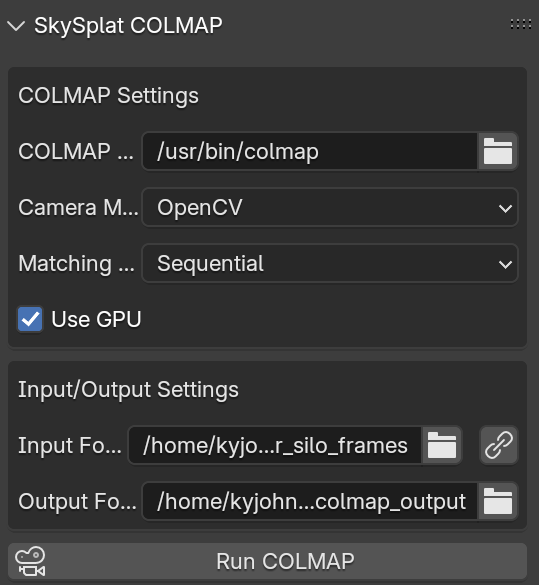
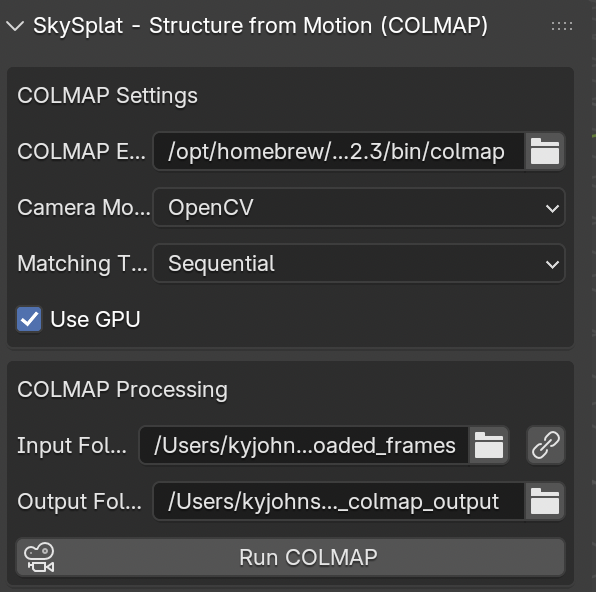
update readme

diff --git a/README.md b/README.md
@@ -169,7 +169,7 @@ For the most up-to-date version or if you want to modify the source code:
    - Select the "SkySplat" tab
 
 2. **Loading Drone Footage**
-   - You can download the example video used in this walkthrough at [windsor_silo](https://skysplat.net/DJI_20240730101124_0020_D_windsor_silo.MP4) (right click and save as)
+   - You can download the example video used in this walkthrough at [windsor_silo](https://skysplat.net/DJI_20250731122012_0009_D_windsor_silo_new_small.mp4) (right click and save as) (This is a new video of the silo that tends to work better in COLMAP)
    - Select your video file in the "Video File" field in the 3D Viewport
    - If available, the SRT metadata file will be detected automatically
    - Click "Load Video and SRT" to import into the Video Sequencer
@@ -177,13 +177,13 @@ For the most up-to-date version or if you want to modify the source code:
 <img src="images/video_loader_panel.png" width="400" alt="Description">
 
 3. **Extracting Frames**
-   - Set your desired frame range and step value, we suggest a step size between 5 and 10 for the sample silo video. Smaller step size means more frames and better reconstruction, but also longer processing times.
+   - Set your desired frame range and step value, Version 0.3.0 of SkySplat will automatically select the frame step value to get the total number of extracted frames to about 170. Smaller step size means more frames and better reconstruction, but also longer processing times.
    - Confirm or modify the output folder
    - Click "Extract Frames" to process
 
 4. **COLMAP Workflow**
    - Configure COLMAP settings in the SkySplat COLMAP panel
-   - COLMAP Executable should auto populate with your systems default path, however you can manually set it if needed
+   - COLMAP Executable should auto populate with your systems default path, however you can manually set it if needed (on MacOS this path will be /opt/homebrew/bin/colmap if you used the homebrew as the install method as described above)
    - If the input and output paths for the models aren't loaded, you can click the chain link icon to auto populate them from the video file path and defaults.
    - The defaults for the other settings should be sufficient for your first few runs. 
    - Click "Run COLMAP" to begin processing your video frames into a sparse point cloud (you can monitor the console running blender for detailed colmap output)
@@ -191,8 +191,12 @@ For the most up-to-date version or if you want to modify the source code:
 <img src="images/colmap_panel.png" width="400" alt="Description">
 
 5. **COLMAP Model Transformation**
-   This step was the main reason I came up with this workflow. COLMAP will default the coordinate frame to the frame of the initial camera pose. This means that for many gaussian splatting drone videos, it is slightly tilted down and at the first camera origin, rather than being at a natural center of the scene. This panel lets you load the COLMAP output model, scale, rotate, and translate the parent object in blender to a more natural scale, position, and orientation, and then export the model before gaussian splatting training.
-   - Click "Load COLMAP Model" after running COLMAP (future versions will make explicit the location of the model to load from, however for now it is the same location as the output of COLMAP that you selected above). Note that the defaults of Transform on Import and Transform on Export are not selected by default, because we are transforming the COLMAP model in blender, we don't necessarily need the addon to do any transformations for us. This will however leave the imported cameras facing the wrong direction but this does not affect the subsequent 3DGS training. 
+   This step was the main reason I came up with this workflow. COLMAP will default the coordinate frame to the frame of the initial camera pose. This means that for many gaussian splatting drone videos, it is slightly tilted down and at the first camera origin, rather than being at a natural center of the scene. The colmap transformation panel lets you load the COLMAP output model, scale, rotate, and translate the parent object in blender to a more natural scale, position, and orientation, and then export the model before gaussian splatting training.
+
+   <img src="images/colmap_transformation_panel.png" width="400" alt="Description">
+
+
+   - Click "Load COLMAP Model" after running COLMAP and it will load the output COLMAP model into blender. You can also go straight to this step in Blender if you already processed your images outside of SkySplat.
 
    ![loaded COLMAP model](images/rotate_and_scale_colmap_1.png)
 
@@ -202,17 +206,17 @@ For the most up-to-date version or if you want to modify the source code:
 
    ![rotate and scale colmap 0](images/rotate_and_scale_colmap_0.png)
 
-   - For the example silo video, I rotated it so the natural ground was in the X-Y plane, and the origin was at the base of the silo. 
+   - For the example silo video, I rotated it so the natural ground was in the X-Y plane, and the origin was at the base of the silo. You can also use a google maps or OSM image with a scale so that you can right size the COLMAP and hence 3DGS models. I have included a screen shot of a map from this silo video at [silo reference map](https://skysplat.net/google_earth_reference_silo.png)
+
+   ![silo reference map](https://skysplat.net/google_earth_reference_silo.png)
+
+   This is one of the highlights of working with COLMAP and 3DGS in Blender, the ability to include other 3D assets, models, and features in a cohesive 3d environment.
 
    ![rotate and scale colmap 2](images/rotate_and_scale_colmap_2.png)
 
-   - This is where the true power of this workflow starts to shine. Because I have yet to incorporate the SRT file, and COLMAP is capable of SfM without explicit camera locations or parameters, the learned scene can be rather small. In this case I added a Blender mesh that is approximately the size of the silo in the scene, and then (again by selecting the COLMAP_Root empty) can scale the model to fit the points on the top of the silo to the top of the mesh silo.
+   Now I can export the model scaled and rotated into a more natural coordinate system, and the 3DGS code will start with these parameters when it fits the gaussians. 
 
-   ![rotate and scale colmap 3](images/rotate_and_scale_colmap_3.png)
-   ![rotate and scale colmap 4](images/rotate_and_scale_colmap_4.png)
-   ![rotate and scale colmap 5](images/rotate_and_scale_colmap_5.png)
-
-   Now I can export the model scaled and rotated into a more natural coordinate system, and the 3DGS code will start with these parameters when it fits the gaussians.
+   <img src="(images/colmap_transformation_panel.png" width="400" alt="Description">
 
     - Click "Export COLMAP Model" after you have finished transforming and adjusting your model, this will export a new model in the <colmap output directory>/transformed/ directory.
 
@@ -220,6 +224,9 @@ For the most up-to-date version or if you want to modify the source code:
    
 
 6. **Brush Training (3D Gaussian Splatting)**
+
+<img src="images/3dgs_brush_app_panel.png" width="400" alt="Description">
+
    - Configure Brush settings in the SkySplat 3DGS panel (as shown in the image below)
    - The Brush Executable path will auto-populate with the bundled binary for your platform (Windows, macOS, or Linux)
    - Use the chain link icon next to the Source Path to automatically sync with your COLMAP output
@@ -229,25 +236,24 @@ For the most up-to-date version or if you want to modify the source code:
      - **Total Steps**: Number of training iterations (default: 30000)
      - **Max Resolution**: Maximum image resolution for training (default: 1920)
      - **With Viewer**: Enable this to pop up the interactive viewer application that shows real-time training progress
+   - If you want to watch the brush app training live you can click the "viewer" button. This will run brush with the UI and show the 3DGS model as it is trained.
    - Advanced options are available by expanding the "Show Advanced Options" section for fine-tuning learning rates, refinement parameters, and dataset options
    - Click "Run Brush Training" to start the process
    - Unlike the original Gaussian Splatting implementation, Brush runs as a subprocess so it won't block the Blender UI
    - Monitor progress in the Blender console, or if you enabled "With Viewer", watch the training progress in the dedicated viewer window
    - The training process will automatically export .ply files at specified intervals to your Export Path
 
+![brush training 1](images/brush_training_1.png)
 
-<img src="images/3dgs_brush_app_panel.png" width="400" alt="Description">
 
 7. **3DGS Loading**
    There is already a rich Blender addon ecosystem for loading 3D gaussian splats into Blender. I recommend [KIRI Innovation's 3DGS Render Addon](https://github.com/Kiri-Innovation/3dgs-render-blender-addon) and you can see it in my Blender screen shots above if you look closely. I recommend loading the ply file without transforming from COLMAP to Blender coordinates mainly because we already did a transformation and scaling in the previous step. If everything worked you will now have your transformed COLMAP model, any helper "reference silos" you created in blender, and the 3D Gaussian Splat ready to create whatever awesome render or animation you are working on. 
 
-![silo_colmap_and_3dgs_0](images/silo_colmap_and_3dgs_0.png)
-![silo_colmap_and_3dgs_1](images/silo_colmap_and_3dgs_1.png)
-![silo_colmap_and_3dgs_2](images/silo_colmap_and_3dgs_2.png)
-![silo_colmap_and_3dgs_3](images/silo_colmap_and_3dgs_3.png)
-![silo_colmap_and_3dgs_4](images/silo_colmap_and_3dgs_4.png)
-![silo_colmap_and_3dgs_5](images/silo_colmap_and_3dgs_5.png)
-![silo_colmap_and_3dgs_6](images/silo_colmap_and_3dgs_6.png)
+![silo_colmap_and_3dgs_1](images/3dgs_model_loaded_1.png)
+![silo_colmap_and_3dgs_2](images/3dgs_model_loaded_2.png)
+![silo_colmap_and_3dgs_3](images/3dgs_model_loaded_3.png)
+![silo_colmap_and_3dgs_4](images/3dgs_model_loaded_4.png)
+![silo_colmap_and_3dgs_5](images/3dgs_model_loaded_5.png)
 
 ## Contributing
 
